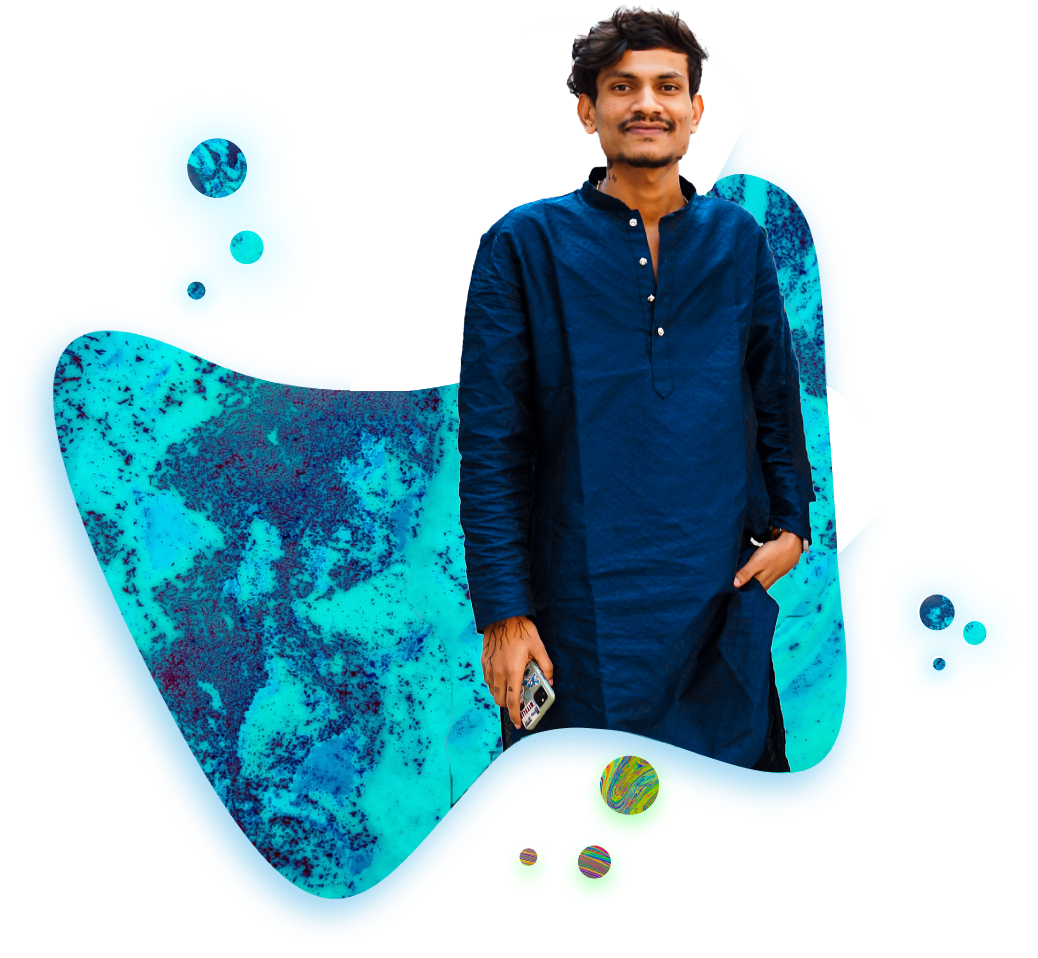
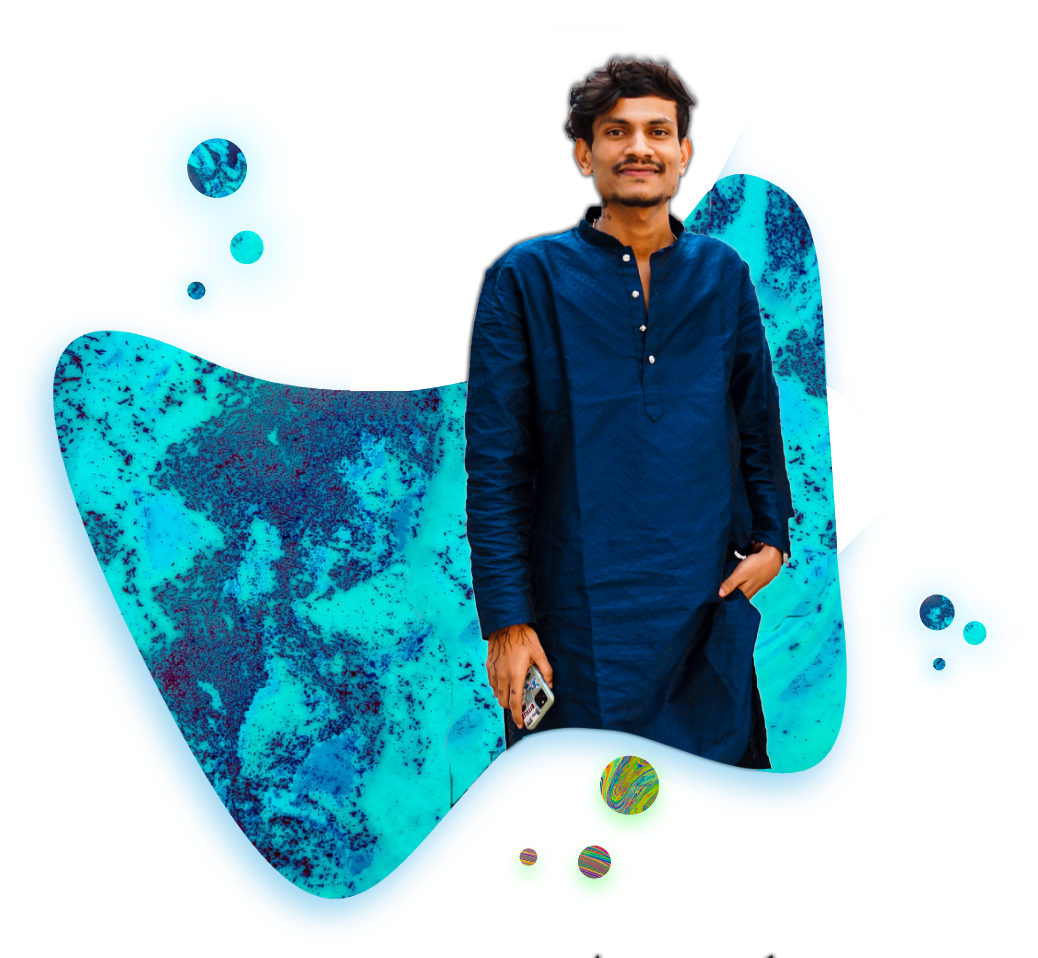
Desigen part completed

diff --git a/style.css b/style.css
@@ -9,11 +9,16 @@ html,body{
     width: 100%;
     height: 100%;
 }
+body{
+    overflow: hidden;
+    background-color: #ececec;
+}
 
 #bg {
     width: 100%;
     height: 100vh;
     background-color:#fff ;
+    transition: all cubic-bezier(0.19, 1, 0.22, 1) .5s;
 }
 
 nav{
@@ -52,6 +57,7 @@ nav #links a:nth-child(2) {
 }
 
 #sections{
+    display: flex;
     width: 100%;
     height: calc(100% - 80px);
    
@@ -64,13 +70,93 @@ nav #links a:nth-child(2) {
 
 }
 #left #smline{
-    width: 50px;
+    width: 90px;
     height: 3px;
     background-color: black;
 }
 
 #left h4{
-    font-size: 30px;
-    margin-top: 20px;
+    font-size: 50px;
+    margin-top: 10px;
     font-family:"Gilroy" ;
+}
+#left img{
+    width: 650px;
+    margin-top: 20px;
+}
+#left>h5{
+    font-size: 17px;
+    text-transform: uppercase;
+    letter-spacing: 5.5px;
+    /* opacity: 0.3; */  
+    color: #bebebe;
+    margin-top: 8px;
+    /* font-weight: 500; */
+}
+
+#left>h5 span{
+    
+    color: rgb(31, 151, 249);
+}
+
+#playbtn img{
+    width: 100px;
+}
+#playbtn{
+    display: flex;
+    align-items: center;
+    justify-content: flex-start;
+}
+
+#playbtn h5{
+    margin-top: 8px;
+    opacity: 0.8;
+    letter-spacing: 10px;
+    margin-left: 20px;
+    text-transform: uppercase;
+}
+
+.bold{
+    font-weight: 800;
+}
+
+#contact{
+    margin-top: 130px;
+}
+
+#contact h3{
+    text-transform: uppercase;
+    /* margin-top: 10px; */
+    letter-spacing: 7px;
+    font-size: 12px;
+    font-weight: 800;
+    opacity: .8;
+    margin-bottom: 20px;
+}
+#contact h6{
+    margin-top: 5px;
+    font-size: 12px;
+}
+
+#contact h6 span{
+    color: rgb(0, 221, 255);
+}
+
+#right{
+    width: 50%;
+    height: 100%;
+    /* background-color: #bebebe; */
+}
+
+#right img{
+    /* width: 100%; */
+    margin-left: 80px;
+    height: 100%;
+}
+
+#splash{
+    position: absolute;
+    left: -60px;
+    top: 70%;
+    width: 150px;
 }

diff --git a/index.html b/index.html
@@ -18,17 +18,40 @@
                 <a href="#">Contact</a>
                 <!-- <a href="#">Projects</a> -->
                 <i class="ri-search-line"></i>
-                <i class="ri-menu-line"></i>
+                <i id="Menu" class="ri-menu-line"></i>
             </div>
         </nav>
         <div id="sections">
+            <img id="splash" src="./imgs/rightSplash.png" alt="">
             <div id="left">
                 <div id="smline"></div>
                 <h4>Hello, I am 👋</h4>
                 <img src="./imgs/Name.png" alt="">
+                <h5>A Passionate Software Developer From <span id="lblue">India</span></h5>
+                <div id="playbtn">
+                    <img src="./imgs/playButton.png" alt="">
+                    <h5>See My <span class="bold">Work profile</span></h5>
+                </div>
+                <div id="contact">
+                    <h3>Contact Me</h3>
+                    <h6>Email : <span>rohidasjondhale@gmail.com</span></h6>
+                    <h6>Contact Number: <span>+91-9420011515</span></h6>
+                </div>
+            </div>
+            <div id="right">
+                <img src="./imgs/mainImage.png" alt="">
             </div>
         </div>
     </div>
-   
+    <script>
+        var menu = document.querySelector('#Menu');
+        var bg = document.querySelector('#bg');
+
+        menu.addEventListener('click', function(){
+            bg.style.transform = 'scale(.8)';
+            bg.style.borderRadius = '10px';
+            bg.style.boxShadow = '0 150px 45px -100px rgba(0,0,0,0.2)';
+        })
+    </script>
 </body>
 </html>
